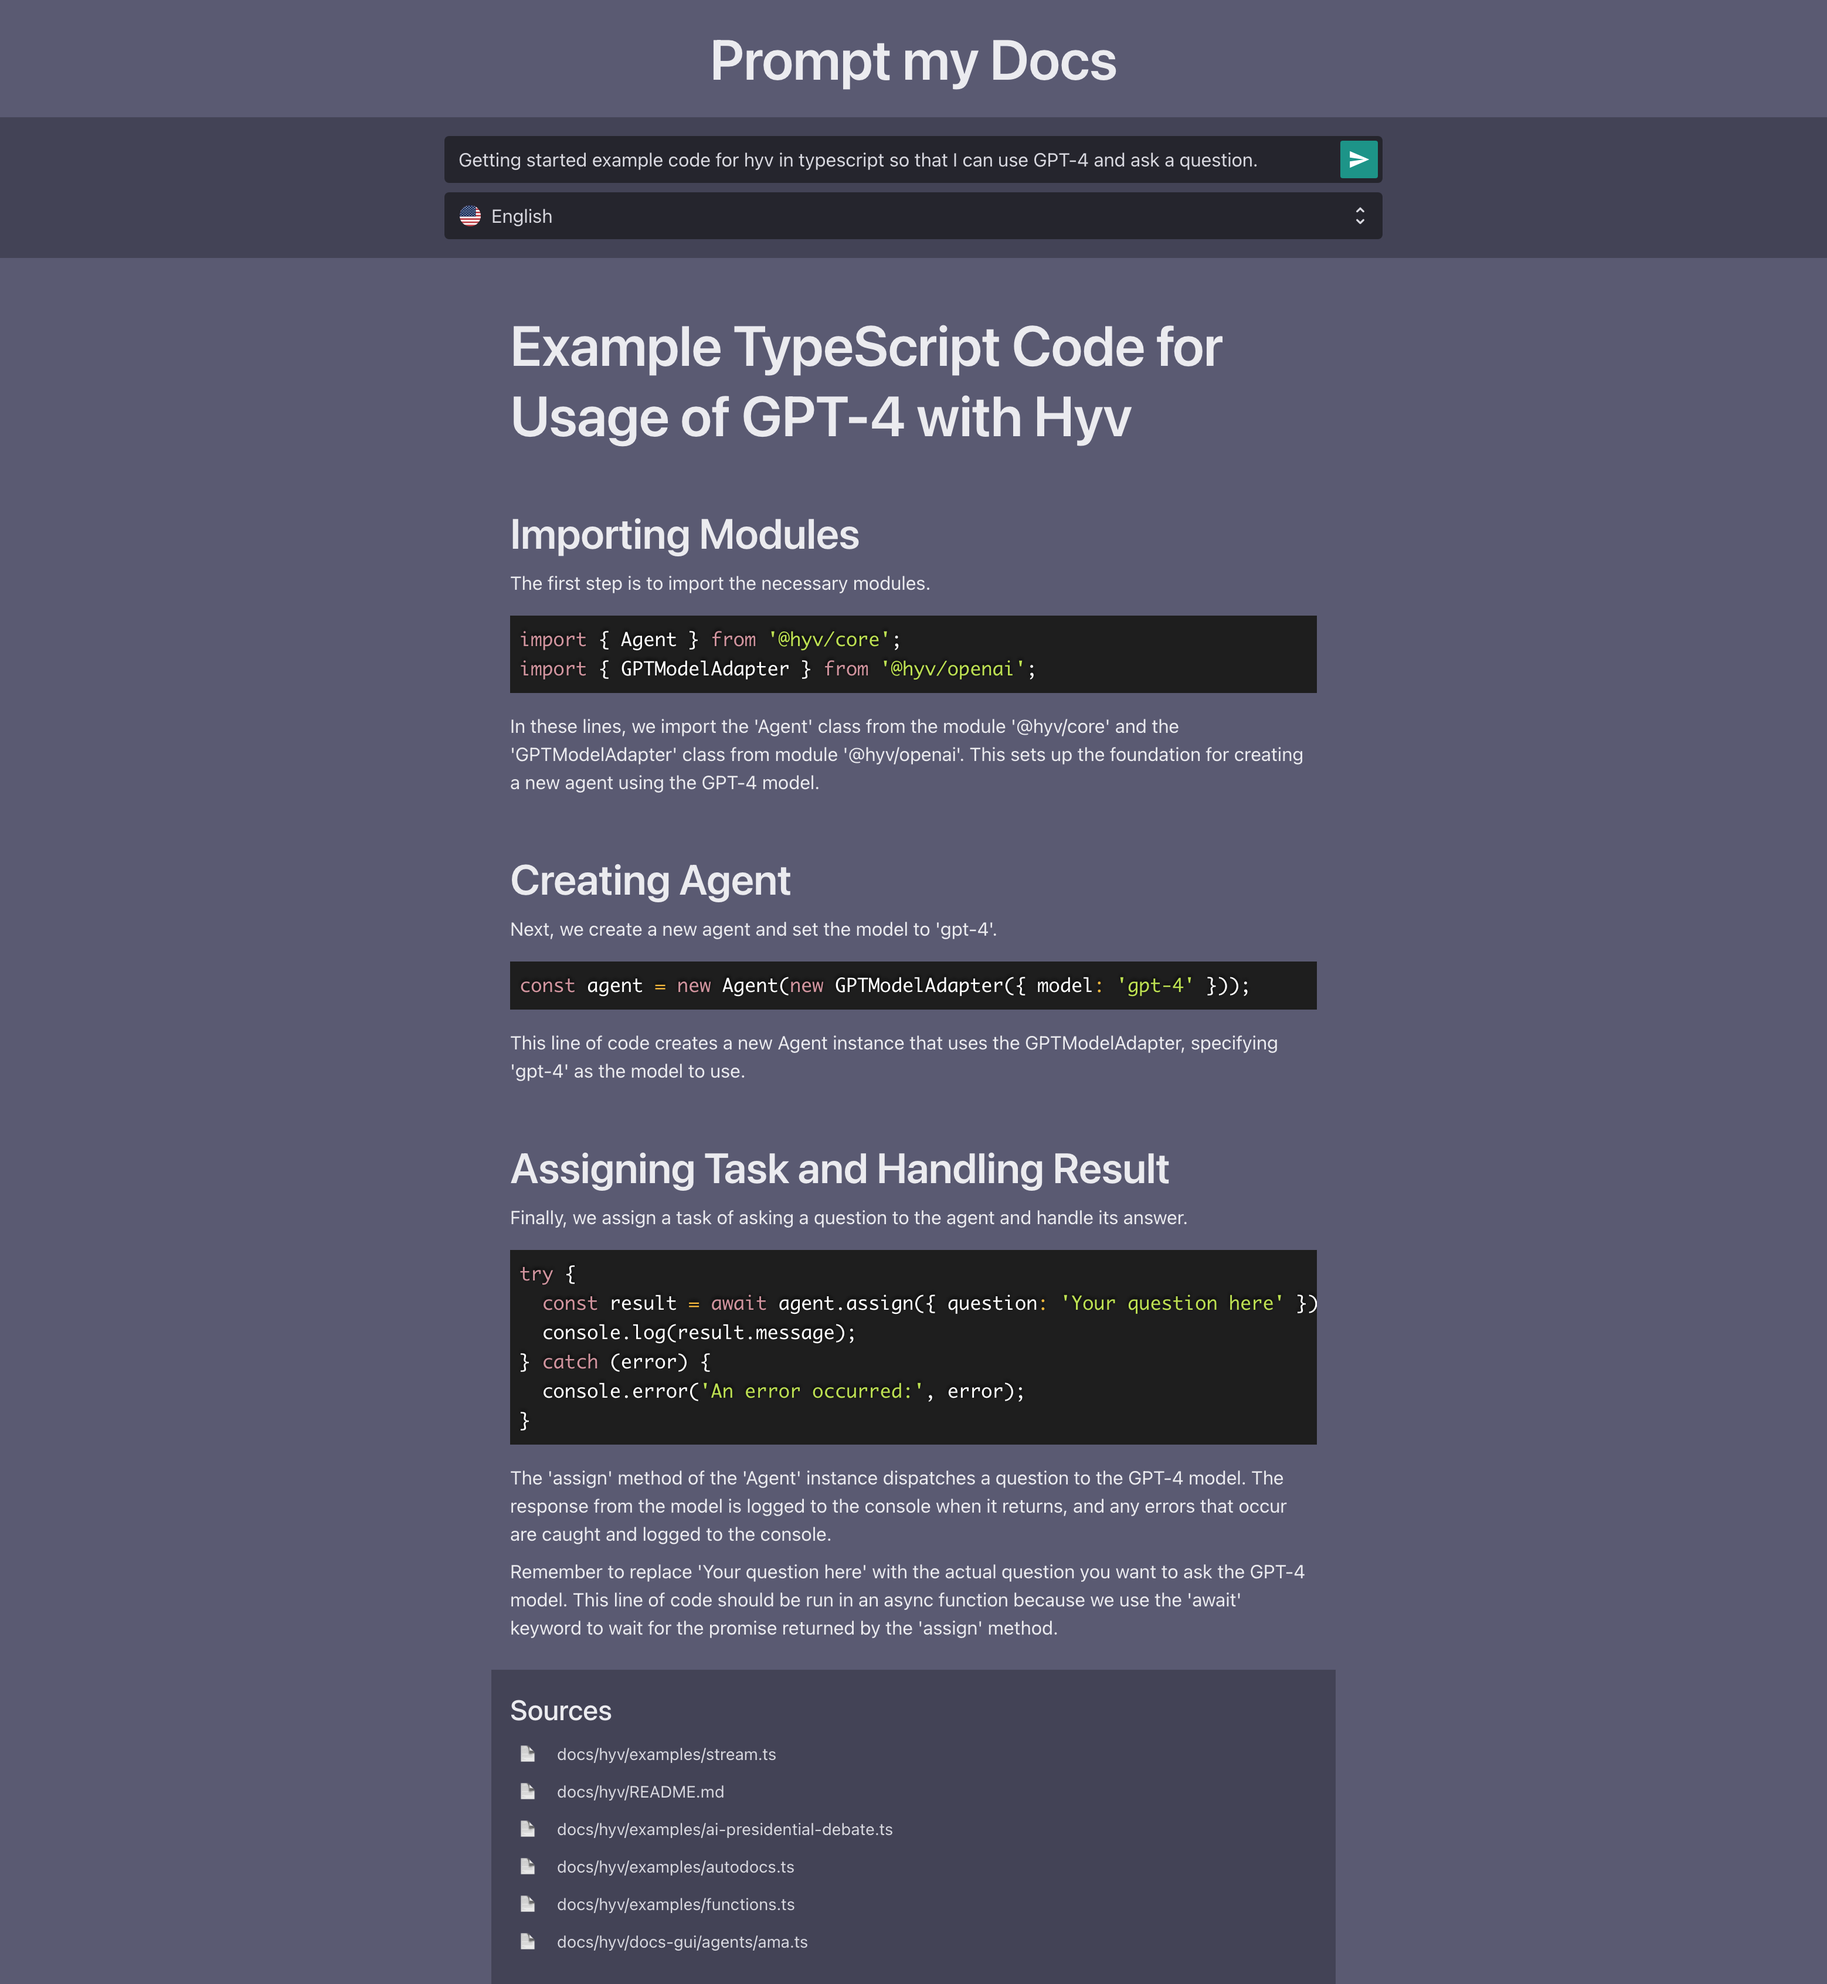
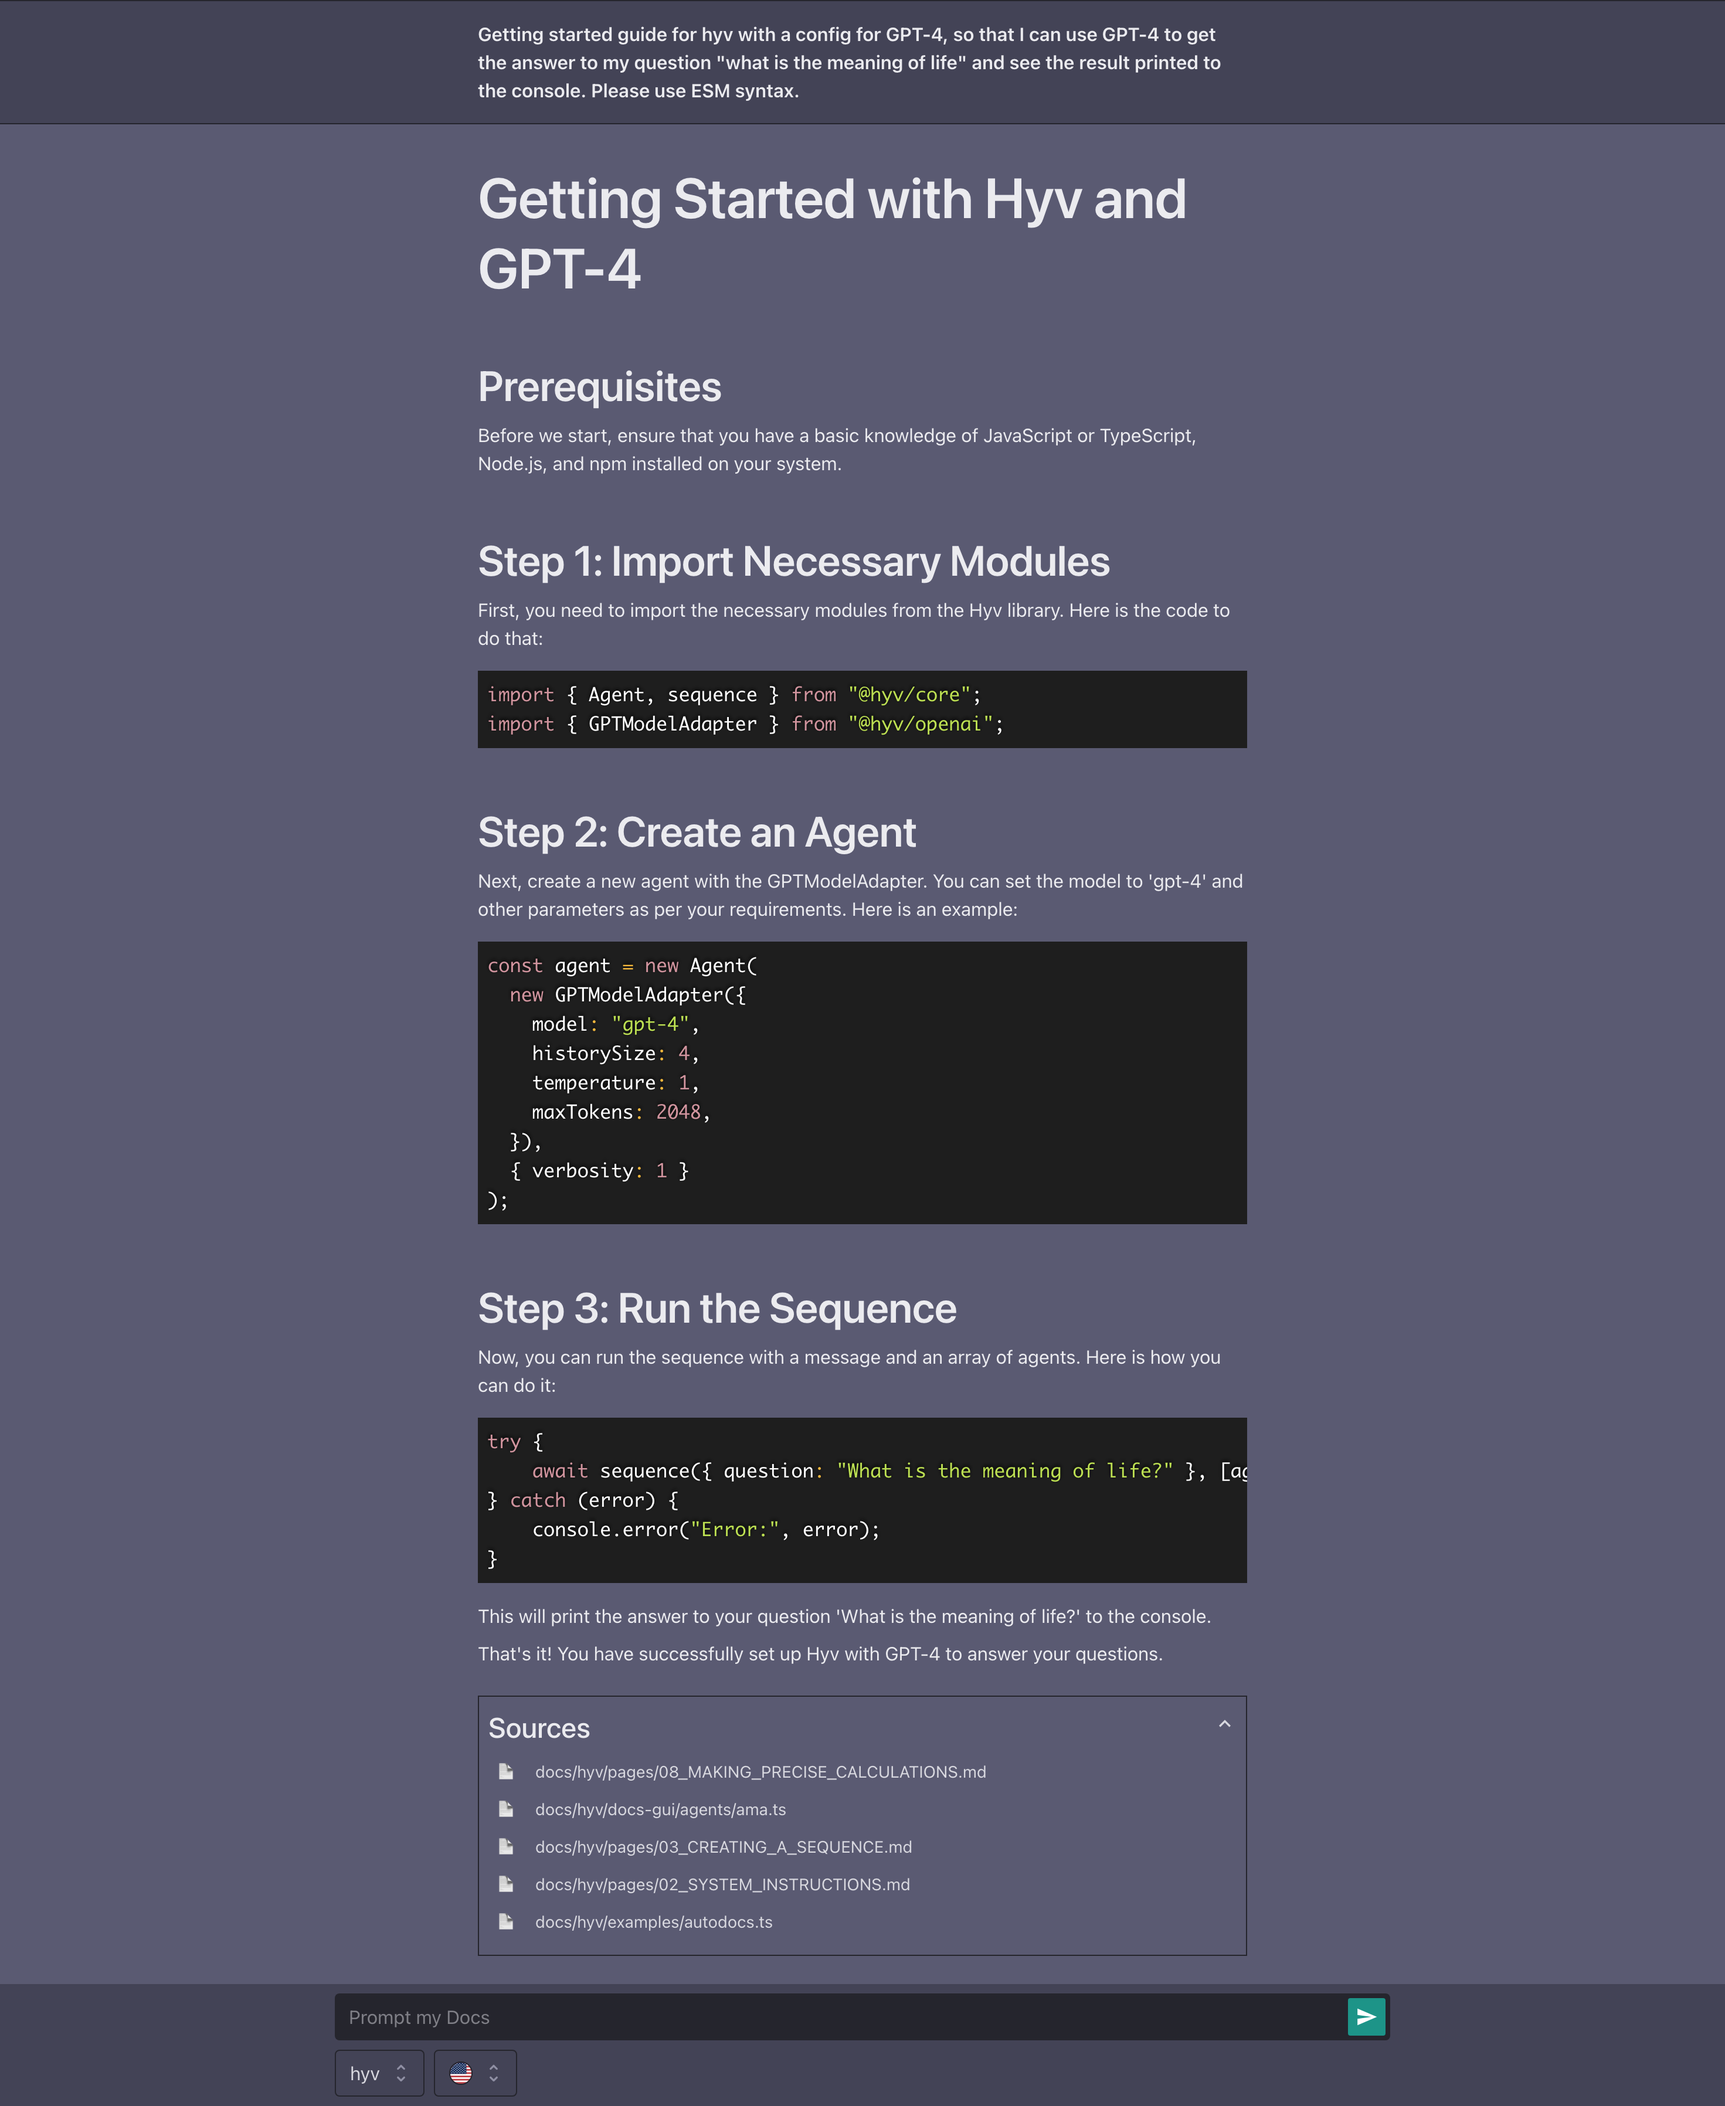
docs(in-action): updated prompt & image

diff --git a/README.md b/README.md
@@ -32,7 +32,9 @@ Have you ever found a new library and wanted to ask questions about it? Then loo
 
 ## In Action
 
-We cloned [hyv](https://github.com/failfa-st/hyv) into the [docs](/docs) folder and used the prompt `Getting started guide for hyv with a config for GPT-4, so that I can use GPT-4 to get the answer to my question “what is the meaning of life” and see the result printed to the console. Please use ESM syntax.` to generate a guide on how to get started. 
+We cloned [hyv](https://github.com/failfa-st/hyv) into the [docs](/docs) folder and used the following prompt to generate a guide on how to get started with [hyv](https://github.com/failfa-st/hyv):
+
+ `Getting started guide for hyv with a config for GPT-4, so that I can use GPT-4 to get the answer to my question “what is the meaning of life” and see the result printed to the console. Please use ESM syntax.` 
 
 ![Prompt my Docs using hyv](/public/prompt_my_docs_get_started_with_hyv.png)
 
